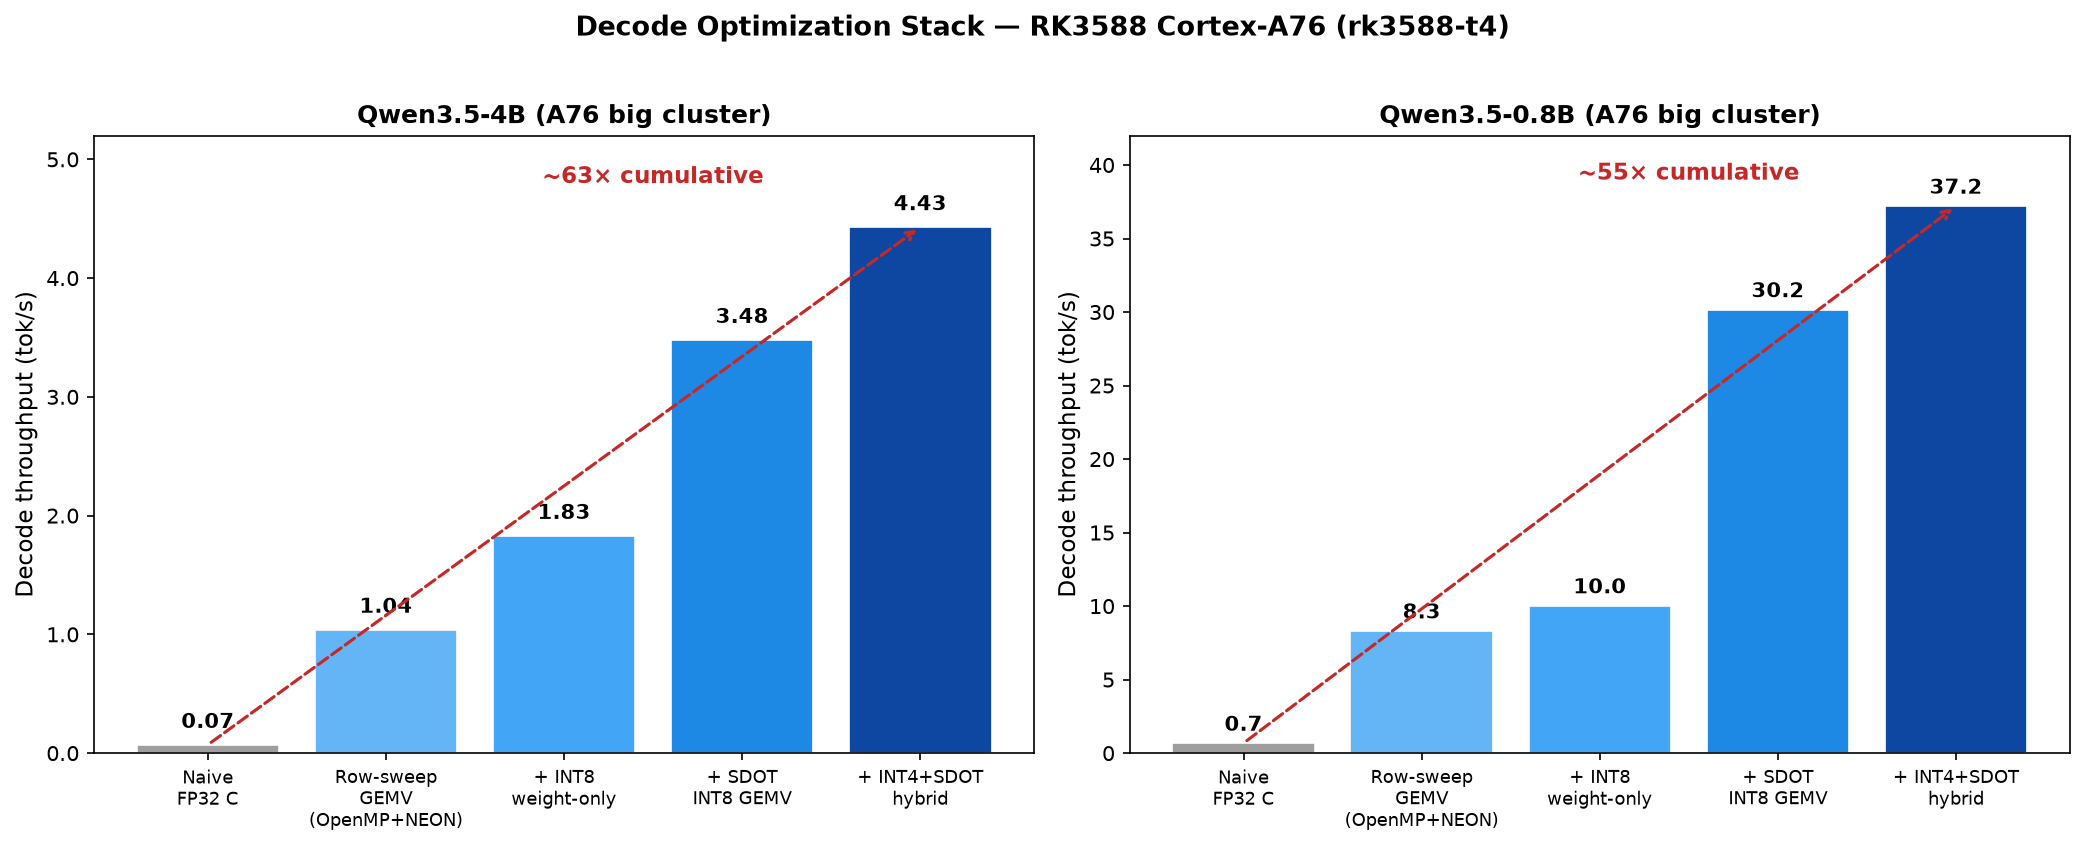
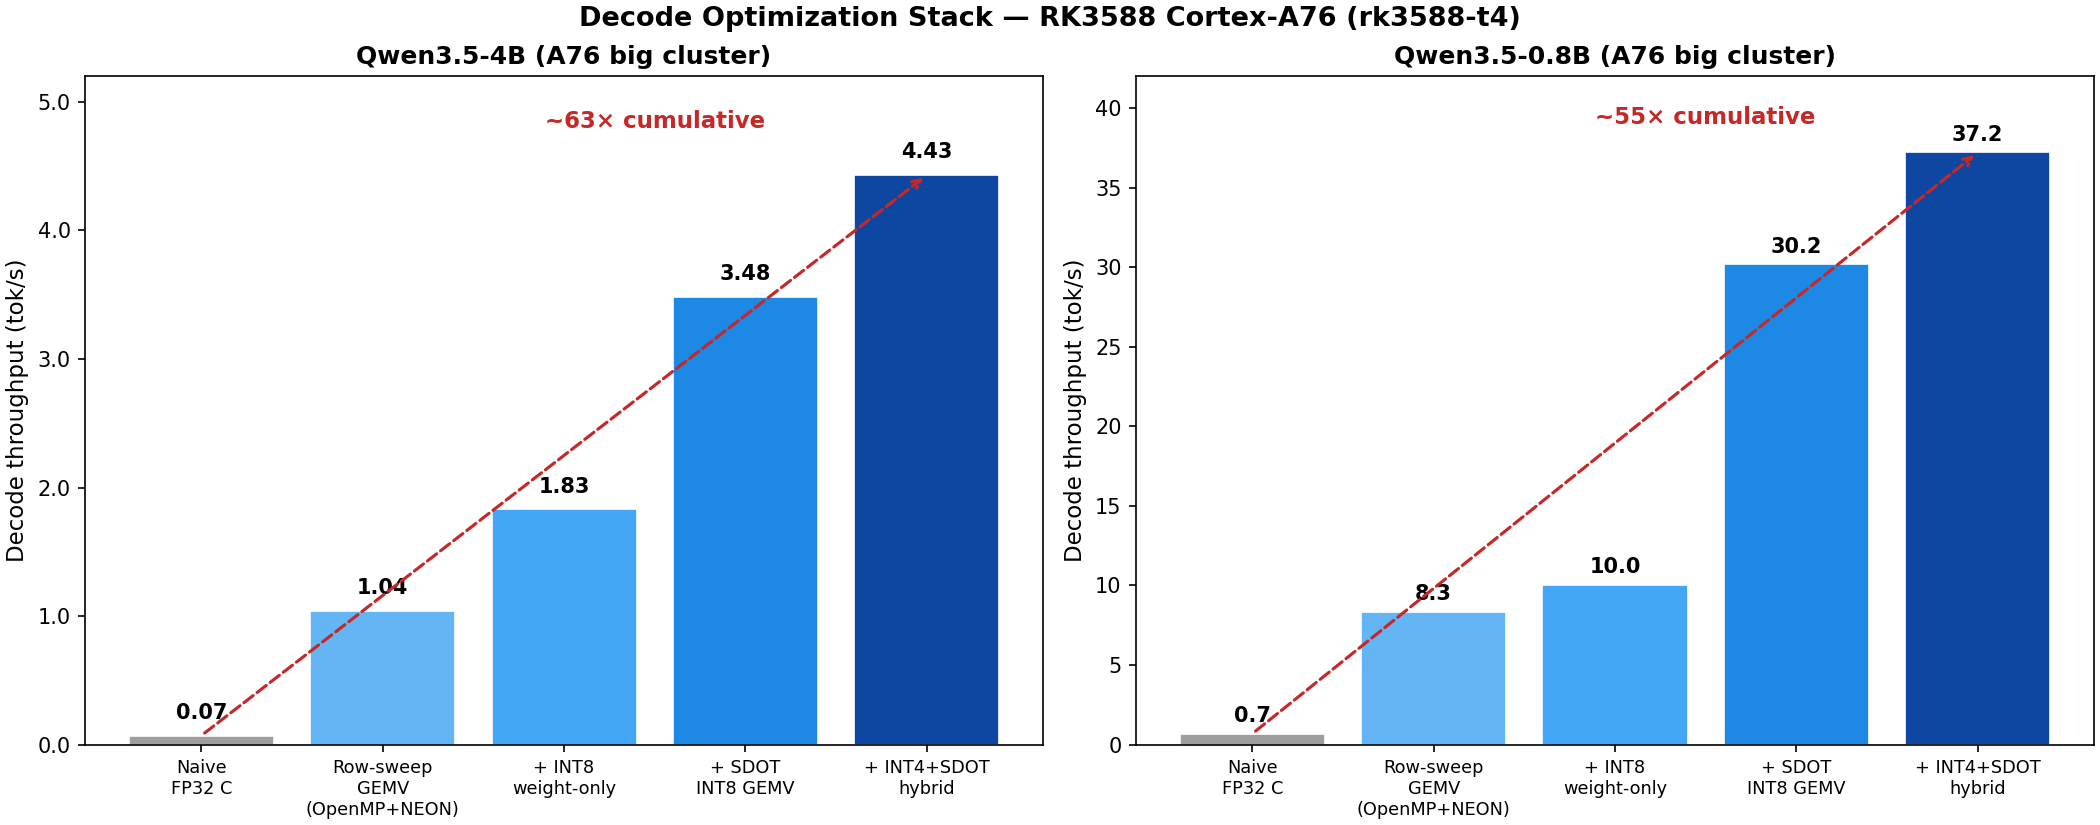
fix: deterministic PNG output (constrained_layout replaces bbox_inches=tight)
Replace bbox_inches='tight' (post-render crop, non-deterministic) with
constrained_layout=True (deterministic) in both figure generators.

This was the root cause of recurring spurious fleet_cross_device.png
binary diffs — matplotlib's bbox_inches='tight' recalculates the figure
bounding box after rendering, producing different binary output across
runs. Verified: md5sums now identical across consecutive regenerations.

Files:
- bench/fleet_analysis.py (fleet_cross_device.png)
- scripts/gen_optimization_stack.py (optimization_stack.png)

diff --git a/scripts/gen_optimization_stack.py b/scripts/gen_optimization_stack.py
@@ -46,7 +46,7 @@ def generate_chart(output_path: str | Path) -> str:
 
     output = str(output_path)
 
-    fig, (ax1, ax2) = plt.subplots(1, 2, figsize=(14, 5.5))
+    fig, (ax1, ax2) = plt.subplots(1, 2, figsize=(14, 5.5), constrained_layout=True)
 
     # --- 4B panel ---
     bars1 = ax1.bar(range(len(STAGES)), TPUT_4B, color=COLORS, edgecolor="white", linewidth=0.8)
@@ -107,12 +107,10 @@ def generate_chart(output_path: str | Path) -> str:
         "Decode Optimization Stack — RK3588 Cortex-A76 (rk3588-t4)",
         fontsize=13,
         fontweight="bold",
-        y=1.02,
     )
-    fig.tight_layout()
 
     os.makedirs(os.path.dirname(output), exist_ok=True)
-    fig.savefig(output, dpi=150, bbox_inches="tight")
+    fig.savefig(output, dpi=150)
     plt.close(fig)
     print(f"Saved: {output}")
     return output

diff --git a/bench/fleet_analysis.py b/bench/fleet_analysis.py
@@ -267,7 +267,7 @@ def plot_cross_device(device_data, output_path):
         print("No devices with scan data — skipping cross-device plot")
         return False
 
-    fig, (ax1, ax2) = plt.subplots(1, 2, figsize=(12, 5))
+    fig, (ax1, ax2) = plt.subplots(1, 2, figsize=(12, 5), constrained_layout=True)
 
     # Left: achieved scan throughput bar chart
     colors = [
@@ -330,10 +330,8 @@ def plot_cross_device(device_data, output_path):
         "Fleet Bandwidth-Scaling: GDN Kernels are Instruction-Bound, Not BW-Bound",
         fontsize=11,
         fontweight="bold",
-        y=1.02,
     )
-    fig.tight_layout()
-    fig.savefig(output_path, dpi=150, bbox_inches="tight")
+    fig.savefig(output_path, dpi=150)
     plt.close(fig)
     print(f"Cross-device plot written to {output_path}")
     return True
